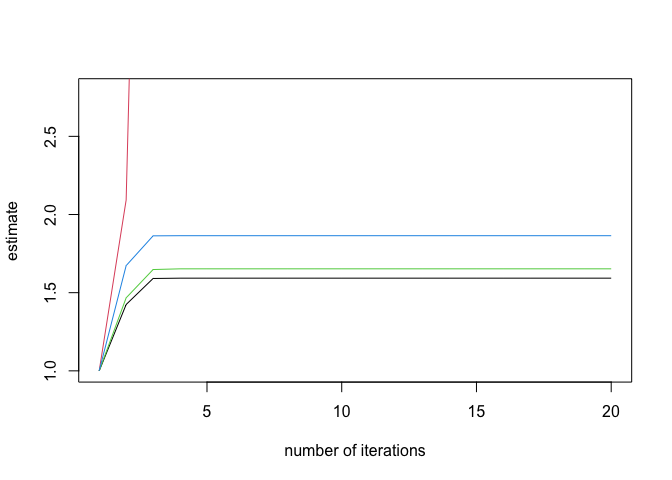
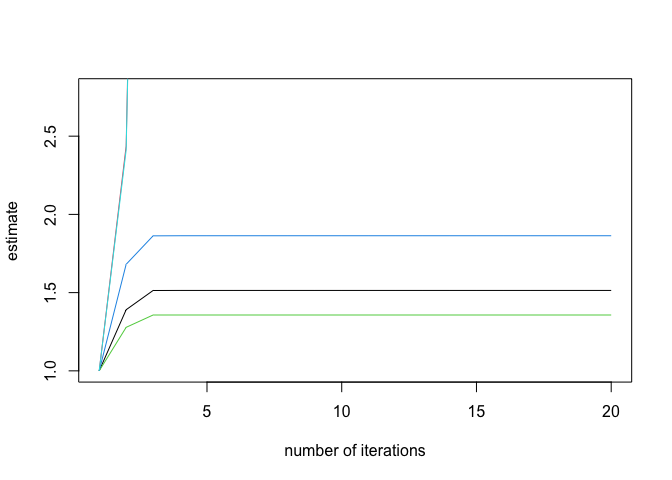
readme updates

diff --git a/README.md b/README.md
@@ -1,3 +1,4 @@
+
 # detectseparation <img src="man/figures/hex_detectseparation.svg" width="320" align="right">
 
 <!-- badges: start -->
@@ -23,53 +24,62 @@ and `check_infinite_estimates()`.
 You can install the released version of detectseparation from
 [CRAN](https://CRAN.R-project.org) with:
 
-    install.packages("detectseparation")
+``` r
+install.packages("detectseparation")
+```
 
 and the development version from [GitHub](https://github.com/) with:
 
-    # install.packages("devtools")
-    devtools::install_github("ikosmidis/detectseparation", ref = "develop")
+``` r
+# install.packages("devtools")
+devtools::install_github("ikosmidis/detectseparation", ref = "develop")
+```
 
 ## Detecting and checking for Infinite maximum likelihood estimates
 
 Heinze and Schemper (2002) used a logistic regression model to analyze
 data from a study on endometrial cancer (see, Agresti 2015, sec. 5.7 or
-`?endometrial` for more details on the data set). Below, we refit the
-model in Heinze and Schemper (2002) in order to demonstrate the
-functionality that **detectseparation** provides.
+`?endometrial` for more details on the data set). Below, we use these
+data with an illustrative model that adds an interaction between `NV`
+and `PI` to demonstrate the functionality that **detectseparation**
+provides.
 
-    library("detectseparation")
-    data("endometrial", package = "detectseparation")
-    endo_glm <- glm(HG ~ NV + PI + EH, family = binomial(), data = endometrial)
-    theta_mle <- coef(endo_glm)
-    summary(endo_glm)
-    #> 
-    #> Call:
-    #> glm(formula = HG ~ NV + PI + EH, family = binomial(), data = endometrial)
-    #> 
-    #> Coefficients:
-    #>               Estimate Std. Error z value Pr(>|z|)    
-    #> (Intercept)    4.30452    1.63730   2.629 0.008563 ** 
-    #> NV            18.18556 1715.75089   0.011 0.991543    
-    #> PI            -0.04218    0.04433  -0.952 0.341333    
-    #> EH            -2.90261    0.84555  -3.433 0.000597 ***
-    #> ---
-    #> Signif. codes:  0 '***' 0.001 '**' 0.01 '*' 0.05 '.' 0.1 ' ' 1
-    #> 
-    #> (Dispersion parameter for binomial family taken to be 1)
-    #> 
-    #>     Null deviance: 104.903  on 78  degrees of freedom
-    #> Residual deviance:  55.393  on 75  degrees of freedom
-    #> AIC: 63.393
-    #> 
-    #> Number of Fisher Scoring iterations: 17
+``` r
+library("detectseparation")
+data("endometrial", package = "detectseparation")
+endo_glm <- glm(HG ~ NV * PI + EH, family = binomial(), data = endometrial)
+theta_mle <- coef(endo_glm)
+summary(endo_glm)
+#> 
+#> Call:
+#> glm(formula = HG ~ NV * PI + EH, family = binomial(), data = endometrial)
+#> 
+#> Coefficients:
+#>               Estimate Std. Error z value Pr(>|z|)    
+#> (Intercept)    4.30452    1.63730   2.629 0.008563 ** 
+#> NV            17.45132 3580.57190   0.005 0.996111    
+#> PI            -0.04218    0.04433  -0.952 0.341333    
+#> EH            -2.90261    0.84555  -3.433 0.000597 ***
+#> NV:PI          0.03155  144.24712   0.000 0.999825    
+#> ---
+#> Signif. codes:  0 '***' 0.001 '**' 0.01 '*' 0.05 '.' 0.1 ' ' 1
+#> 
+#> (Dispersion parameter for binomial family taken to be 1)
+#> 
+#>     Null deviance: 104.903  on 78  degrees of freedom
+#> Residual deviance:  55.393  on 74  degrees of freedom
+#> AIC: 65.393
+#> 
+#> Number of Fisher Scoring iterations: 17
+```
 
 The maximum likelihood (ML) estimate of the parameter for `NV` is
 actually infinite. The reported, apparently finite value is merely due
 to false convergence of the iterative estimation procedure. The same is
-true for the estimated standard error, and, hence the value 0.011 for
-the *z*-statistic cannot be trusted for inference on the size of the
-effect for `NV`.
+true for the estimated standard error, and, hence the value
+`r round(coef(summary(endo_glm))["NV", "z value"], 3)` for the
+$z$-statistic cannot be trusted for inference on the size of the effect
+for `NV`.
 
 ### `detect_separation()`
 
@@ -77,54 +87,76 @@ effect for `NV`.
 not need to estimate the model to detect separation and/or identify
 infinite estimates. For example,
 
-    endo_sep <- glm(HG ~ NV + PI + EH, data = endometrial,
-                    family = binomial("logit"),
-                    method = "detect_separation")
-    endo_sep
-    #> Implementation: ROI | Solver: lpsolve 
-    #> Separation: TRUE 
-    #> Existence of maximum likelihood estimates
-    #> (Intercept)          NV          PI          EH 
-    #>           0         Inf           0           0 
-    #> 0: finite value, Inf: infinity, -Inf: -infinity
+``` r
+endo_sep <- glm(HG ~ NV * PI + EH, data = endometrial,
+                family = binomial("logit"),
+                method = "detect_separation")
+endo_sep
+#> Implementation: ROI | Solver: lpsolve 
+#> Separation: TRUE 
+#> Existence of maximum likelihood estimates
+#> (Intercept)          NV          PI          EH       NV:PI 
+#>           0         Inf           0           0      NA(UD) 
+#> 0: finite value, Inf: infinity, -Inf: -infinity, NA(A): aliased, NA(UD): undetermined, NA(UR): unresolved
+```
 
-So, the actual maximum likelihood estimates are
+The printed coefficient flags distinguish finite estimates (`0`) from
+positive or negative infinity (`Inf` or `-Inf`). `NA(UD)` indicates that
+there is no unique coefficient limit. Here, the `NV` coefficient tends
+to positive infinity, while `NV:PI` can tend to either infinity or any
+finite value, provided `NV` grows sufficiently fast.
 
-    coef(endo_glm) + coef(endo_sep)
-    #> (Intercept)          NV          PI          EH 
-    #>   4.3045178         Inf  -0.0421834  -2.9026056
+These annotations are for display: `coef()` returns ordinary numeric
+`NA`s, with their interpretation recorded in
+`endo_sep$coefficient_status`. See `?detect_separation` for details of
+all coefficient classifications, including aliasing and unresolved
+numerical calculations.
 
-and the estimated standard errors are
+We can combine the classifications with the fitted coefficients
 
-    coef(summary(endo_glm))[, "Std. Error"] + abs(coef(endo_sep))
-    #> (Intercept)          NV          PI          EH 
-    #>  1.63729861         Inf  0.04433196  0.84555156
+``` r
+coef(endo_glm) + coef(endo_sep)
+#> (Intercept)          NV          PI          EH       NV:PI 
+#>   4.3045178         Inf  -0.0421834  -2.9026056          NA
+```
+
+and similarly with their estimated standard errors
+
+``` r
+coef(summary(endo_glm))[, "Std. Error"] + abs(coef(endo_sep))
+#> (Intercept)          NV          PI          EH       NV:PI 
+#>  1.63729863         Inf  0.04433197  0.84555156          NA
+```
 
 We can ask `detect_separation()` not only to detect separation, but
-also, if separation is detected, to solve an additional linear program
-to check whether separation is complete or quasi-complete. We do this by
-setting `separation_type = TRUE` in the `glm()` call
+also, if separation is detected, to check whether separation is complete
+or quasi-complete. We do this by setting `separation_type = TRUE` in the
+`glm()` call
 
-    glm(HG ~ NV + PI + EH, data = endometrial, family = binomial("logit"),
-        method = "detect_separation", separation_type = TRUE)
-    #> Implementation: ROI | Solver: lpsolve 
-    #> Separation: TRUE (quasi-complete)
-    #> Existence of maximum likelihood estimates
-    #> (Intercept)          NV          PI          EH 
-    #>           0         Inf           0           0 
-    #> 0: finite value, Inf: infinity, -Inf: -infinity
+``` r
+glm(HG ~ NV * PI + EH, data = endometrial, family = binomial("logit"),
+    method = "detect_separation", separation_type = TRUE)
+#> Implementation: ROI | Solver: lpsolve 
+#> Separation: TRUE (quasi-complete)
+#> Existence of maximum likelihood estimates
+#> (Intercept)          NV          PI          EH       NV:PI 
+#>           0         Inf           0           0      NA(UD) 
+#> 0: finite value, Inf: infinity, -Inf: -infinity, NA(A): aliased, NA(UD): undetermined, NA(UR): unresolved
+```
 
 We can of course, simply, use the update method on the `glm` object, if
 that is available, and change the `method` argument with any extra
 options. For example,
 
-    update(endo_glm, method = "detect_separation", separation_type = TRUE)
-    #> Implementation: ROI | Solver: lpsolve 
-    #> Separation: TRUE (quasi-complete)
-    #> Existence of maximum likelihood estimates
-    #> (Intercept)          NV          PI          EH 
-    #>           0         Inf           0           0 
-    #> 0: finite value, Inf: infinity, -Inf: -infinity
+``` r
+update(endo_glm, method = "detect_separation", separation_type = TRUE)
+#> Implementation: ROI | Solver: lpsolve 
+#> Separation: TRUE (quasi-complete)
+#> Existence of maximum likelihood estimates
+#> (Intercept)          NV          PI          EH       NV:PI 
+#>           0         Inf           0           0      NA(UD) 
+#> 0: finite value, Inf: infinity, -Inf: -infinity, NA(A): aliased, NA(UD): undetermined, NA(UR): unresolved
+```
 
 ### `check_infinite_estimates()`
 
@@ -133,49 +165,72 @@ the occurrence of infinite estimates. In particular, the model is
 successively refitted, by increasing the maximum number of allowed
 iteratively re-weighted least squares iterations at each step. The
 estimated asymptotic standard errors from each step are, then, divided
-to the corresponding ones from the first fit. If the sequence of ratios
-diverges, then the maximum likelihood estimate of the corresponding
-parameter is minus or plus infinity. The following code chunk applies
-this process to `endo_glm`.
+to the corresponding ones from the first fit. Diverging ratios indicate
+loss of information associated with separation. They do not determine
+the sign of an infinite coefficient limit or distinguish it from an
+undetermined coefficient limit. The following code chunk applies this
+process to `endo_glm`.
 
-    (inf_check <- check_infinite_estimates(endo_glm))
-    #>       (Intercept)           NV       PI       EH
-    #>  [1,]    1.000000 1.000000e+00 1.000000 1.000000
-    #>  [2,]    1.424352 2.092407e+00 1.466885 1.672979
-    #>  [3,]    1.590802 8.822303e+00 1.648003 1.863563
-    #>  [4,]    1.592818 6.494231e+01 1.652508 1.864476
-    #>  [5,]    1.592855 7.911035e+02 1.652591 1.864492
-    #>  [6,]    1.592855 1.588973e+04 1.652592 1.864493
-    #>  [7,]    1.592855 5.298760e+05 1.652592 1.864493
-    #>  [8,]    1.592855 2.332822e+07 1.652592 1.864493
-    #>  [9,]    1.592855 2.332822e+07 1.652592 1.864493
-    #> [10,]    1.592855 2.332822e+07 1.652592 1.864493
-    #> [11,]    1.592855 2.332822e+07 1.652592 1.864493
-    #> [12,]    1.592855 2.332822e+07 1.652592 1.864493
-    #> [13,]    1.592855 2.332822e+07 1.652592 1.864493
-    #> [14,]    1.592855 2.332822e+07 1.652592 1.864493
-    #> [15,]    1.592855 2.332822e+07 1.652592 1.864493
-    #> [16,]    1.592855 2.332822e+07 1.652592 1.864493
-    #> [17,]    1.592855 2.332822e+07 1.652592 1.864493
-    #> [18,]    1.592855 2.332822e+07 1.652592 1.864493
-    #> [19,]    1.592855 2.332822e+07 1.652592 1.864493
-    #> [20,]    1.592855 2.332822e+07 1.652592 1.864493
-    #> attr(,"class")
-    #> [1] "inf_check"
-    plot(inf_check)
+``` r
+(inf_check <- check_infinite_estimates(endo_glm))
+#>       (Intercept)           NV       PI       EH        NV:PI
+#>  [1,]    1.000000 1.000000e+00 1.000000 1.000000 1.000000e+00
+#>  [2,]    1.390660 2.436227e+00 1.278100 1.680866 2.410007e+00
+#>  [3,]    1.513574 1.065712e+01 1.356897 1.862917 1.045691e+01
+#>  [4,]    1.513979 7.859262e+01 1.356929 1.863567 7.706155e+01
+#>  [5,]    1.513986 9.574194e+02 1.356929 1.863579 9.387555e+02
+#>  [6,]    1.513986 1.923028e+04 1.356929 1.863579 1.885540e+04
+#>  [7,]    1.513986 6.449867e+05 1.356929 1.863579 6.425634e+05
+#>  [8,]    1.513986 2.466528e+07 1.356929 1.863579 2.381569e+07
+#>  [9,]    1.513986 2.466528e+07 1.356929 1.863579 2.381569e+07
+#> [10,]    1.513986 2.466528e+07 1.356929 1.863579 2.381569e+07
+#> [11,]    1.513986 2.466528e+07 1.356929 1.863579 2.381569e+07
+#> [12,]    1.513986 2.466528e+07 1.356929 1.863579 2.381569e+07
+#> [13,]    1.513986 2.466528e+07 1.356929 1.863579 2.381569e+07
+#> [14,]    1.513986 2.466528e+07 1.356929 1.863579 2.381569e+07
+#> [15,]    1.513986 2.466528e+07 1.356929 1.863579 2.381569e+07
+#> [16,]    1.513986 2.466528e+07 1.356929 1.863579 2.381569e+07
+#> [17,]    1.513986 2.466528e+07 1.356929 1.863579 2.381569e+07
+#> [18,]    1.513986 2.466528e+07 1.356929 1.863579 2.381569e+07
+#> [19,]    1.513986 2.466528e+07 1.356929 1.863579 2.381569e+07
+#> [20,]    1.513986 2.466528e+07 1.356929 1.863579 2.381569e+07
+#> attr(,"class")
+#> [1] "inf_check"
+plot(inf_check)
+```
 
-<img src="man/figures/README-unnamed-chunk-7-1.png" width="100%" />
+<img src="man/figures/README-unnamed-chunk-7-1.png" alt="" width="100%" />
+
+The ratios grow for both `NV` and `NV:PI`, although only `NV` is
+classified as positive infinity; `NV:PI` has an undetermined coefficient
+limit.
 
 # References
 
+<div id="refs" class="references csl-bib-body hanging-indent">
+
+<div id="ref-agresti:2015" class="csl-entry">
+
 Agresti, A. 2015. *Foundations of Linear and Generalized Linear Models*.
 Wiley Series in Probability and Statistics. Wiley.
+
+</div>
+
+<div id="ref-heinze+schemper:2002" class="csl-entry">
 
 Heinze, G., and M. Schemper. 2002. “A Solution to the Problem of
 Separation in Logistic Regression.” *Statistics in Medicine* 21:
 2409–19.
 
+</div>
+
+<div id="ref-lesaffre+albert:1989" class="csl-entry">
+
 Lesaffre, E., and A. Albert. 1989. “Partial Separation in Logistic
 Discrimination.” *Journal of the Royal Statistical Society. Series B
 (Methodological)* 51 (1): 109–16.
 <https://www.jstor.org/stable/2345845>.
+
+</div>
+
+</div>
